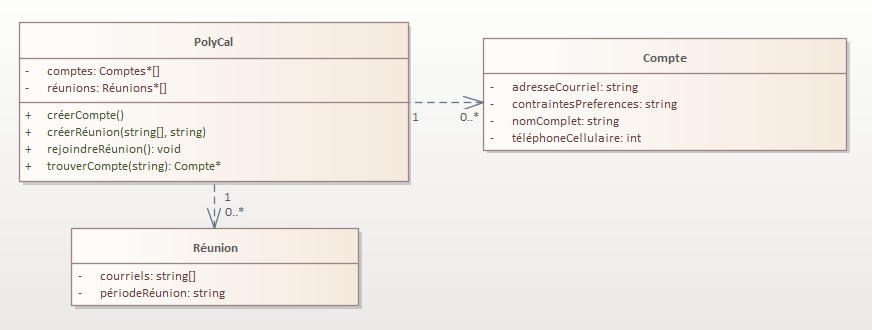
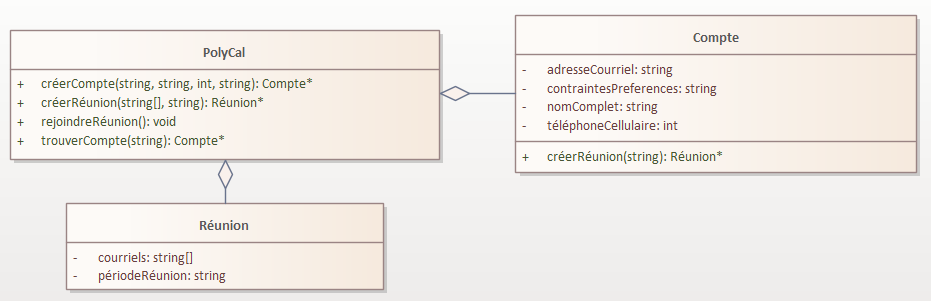
added SSD and modified classes

Changed region(s): [[0.0, 0.0598, 0.5573, 0.9867], [0.5264, 0.0299, 0.9908, 0.598], [0.5573, 0.5083, 0.7741, 0.5382]]

diff --git a/diagrammes-d-interaction.md b/diagrammes-d-interaction.md
@@ -81,6 +81,23 @@ Un opérateur d'interaction est un élément utilisé dans les diagrammes de sé
 | _Loop_ | ![](/out/plant_uml/loopOperatorExample/loopOperatorExample.svg) | Indique que le fragment d'interactions sera exécuté en boucle. La condition de sortie peut être représentée avec une condition de sortie ou comme ceci: loop(min, max). |
 | _ref_ | ![](/out/plant_uml/refOperatorExample/refOperatorExample.svg) | Réfère à une interaction définie dans un autre diagram |
 
+## Le diagramme de séquence du système (SSD) 
+
+Le SSD est un type de diagramme de séquence.
+
+Le SSD présente, pour une instance d’un cas d’utilisation:
+– Les événements générés par les acteurs;
+
+– L’ordre de ces événements;
+
+– Les autres événements inter-système;
+
+– Les opérations du système déclenchées par ces événements.
+
+Voici un exemple d'un **SSD** basé sur le cas d'étude [PolyCal](../polycal/).
+![Diagramme SSD](/assets/images/SSD.png)
+
+
 ## Exemple
 
 Voici un exemple d'un **diagramme d'interaction** basé sur le cas d'étude [PolyCal](../polycal/).

diff --git a/diagrammes-de-contexte.md b/diagrammes-de-contexte.md
@@ -12,16 +12,16 @@ has_toc: false
 # Diagramme de contexte
 
 Le diagramme de **cas de contexte** présentent les cas
-d’utilisation primaires d’un système sans aller dans les détails.
+d’utilisation principaux d’un système sans aller dans les détails.
 
 - Ceci permet de voir rapidement les principales
   fonctions d’un système.
 - Plus particulièrement, le diagramme de contexte définit:
   - Les limites du système modélisé.
   - Les principaux acteurs du modèle.
-  - Les cas d’utilisation primaires.
+  - Les cas d’utilisation principaux.
 
-## Comment savoir si un cas d'utilisation est primaire ? 
+## Comment savoir si un cas d'utilisation fait partie des cas principaux ? 
 
 On considère **importants** les cas d’utilisation qui:
 1. Ont un **impact important sur l’architecture du système**, par exemple parce qu’ils introduisent beaucoup de concepts ou classes, ou exigent de la persistance.

diff --git a/diagrammes-de-cas-dutilisation.md b/diagrammes-de-cas-dutilisation.md
@@ -11,15 +11,10 @@ has_toc: false
 
 # Diagrammes de cas d'utilisation
 
-Le diagramme de **cas d'utilisation** permet de visualiser les cas
-d’utilisation primaires d’un système.
-
-- Ceci permet de voir rapidement les principales
-  fonctions d’un système.
-- Plus particulièrement, le diagramme de contexte définit:
+Le diagramme de **cas d'utilisation** permet de visualiser en détail un cas d'utilisation d’un système. Il illustre :
   - Les limites du système modélisé.
-  - Les principaux acteurs du modèle.
-  - Les cas d’utilisation primaires.
+  - Les acteurs du cas d'utilisation.
+  - Le cas d’utilisation principal et ses sous-cas.
 
 ## Cas d'utilisation
 

diff --git a/sections_diagramme_contexte/cas-primaire.md b/sections_diagramme_contexte/cas-primaire.md
@@ -1,6 +1,6 @@
 ---
-title: Comment savoir si un cas d'utilisation est primaire ? 
-permalink: /diagrammes-de-contexte/#cas-primaire
+title: Comment savoir si un cas d'utilisation fait partie des cas principaux ? 
+permalink: /diagrammes-de-contexte/#cas-principaux
 nav_order: 2
 parent: Diagrammes de contexte
 ---
